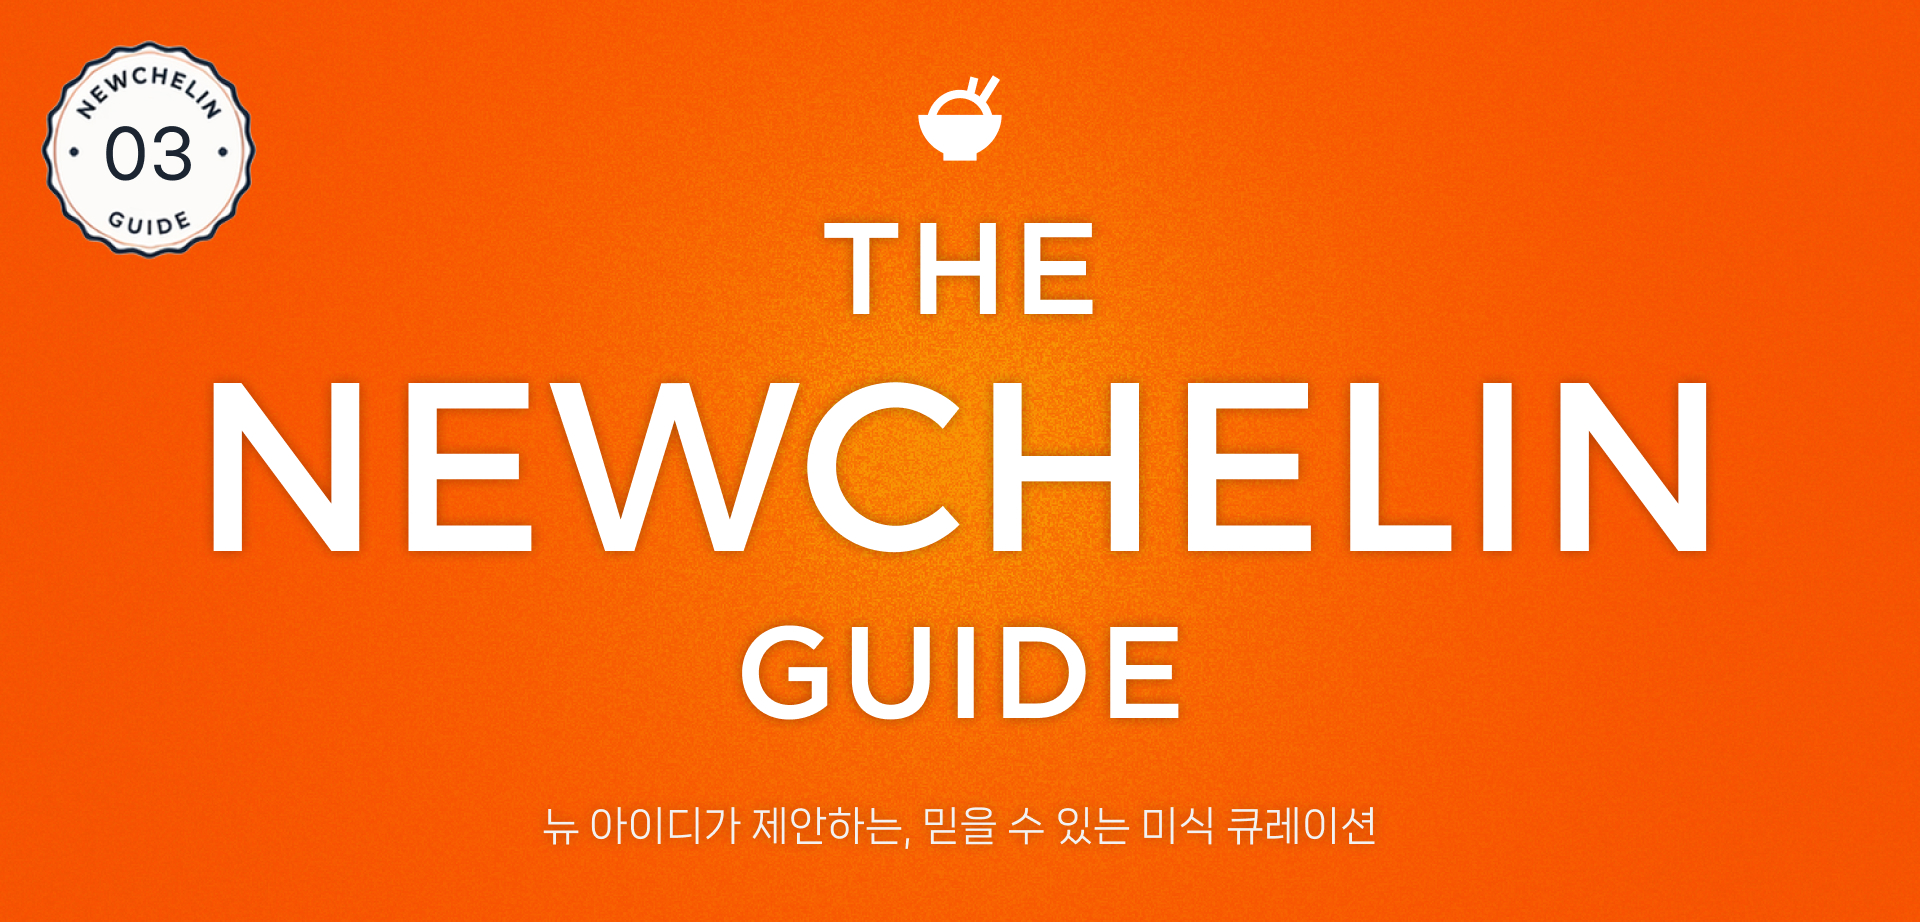
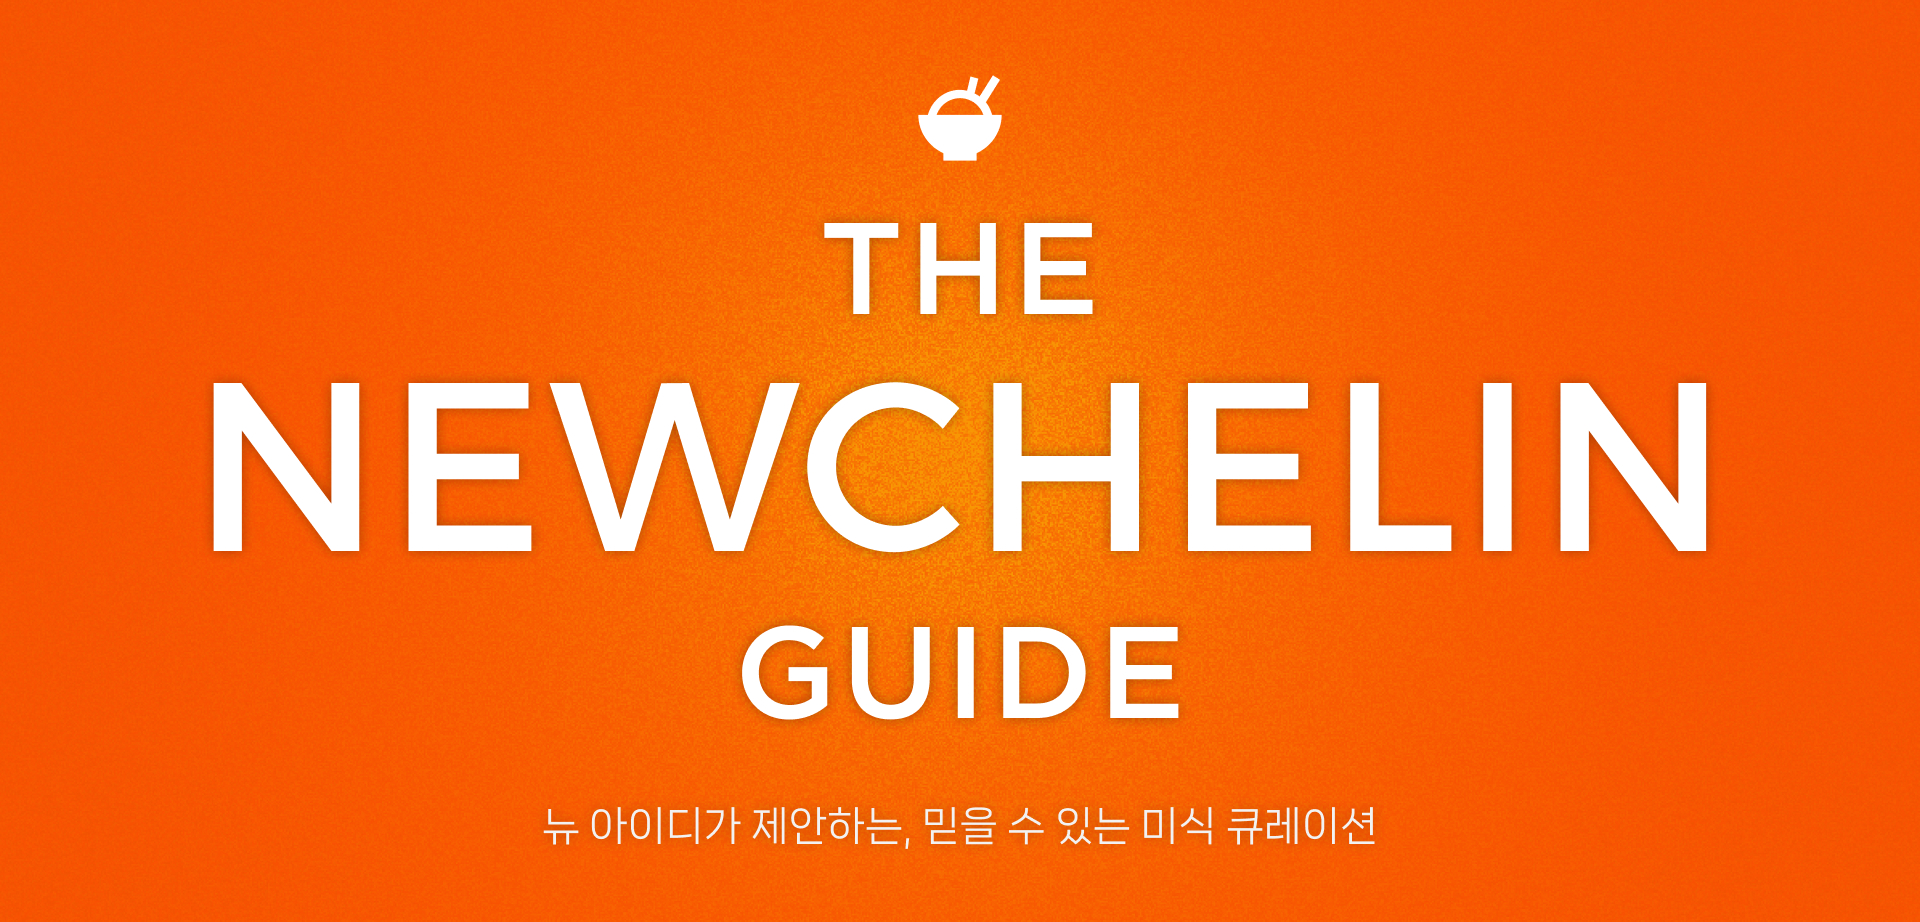
공유 미리보기(OG/트위터 카드) 메타태그 추가
카카오톡·슬랙·페이스북·X 공유 시 뉴슐랭 배너 이미지와 제목/설명 노출

Changed region(s): [[0.0, 0.0304, 0.1562, 0.3037]]

diff --git a/index.html b/index.html
@@ -4,8 +4,27 @@
   <meta charset="UTF-8" />
   <meta name="viewport" content="width=device-width, initial-scale=1.0" />
   <title>THE NEWCHELIN GUIDE MAP | NEW ID</title>
+  <meta name="description" content="뉴 아이디가 제안하는, 믿을 수 있는 미식 큐레이션. 뉴슐랭 가이드에 소개된 맛집과 카페를 지도에서 만나보세요." />
   <link rel="shortcut icon" href="favicon.png" />
   <link rel="icon" type="image/png" href="favicon.png" />
+
+  <!-- Open Graph (카카오톡, 페이스북, 슬랙 등 공유 미리보기) -->
+  <meta property="og:type" content="website" />
+  <meta property="og:site_name" content="NEW ID" />
+  <meta property="og:title" content="THE NEWCHELIN GUIDE MAP" />
+  <meta property="og:description" content="뉴 아이디가 제안하는, 믿을 수 있는 미식 큐레이션. 뉴슐랭 가이드에 소개된 맛집과 카페를 지도에서 만나보세요." />
+  <meta property="og:url" content="https://newchelin-map.vercel.app/" />
+  <meta property="og:image" content="https://newchelin-map.vercel.app/assets/newchelin_banner.jpg" />
+  <meta property="og:image:width" content="1920" />
+  <meta property="og:image:height" content="922" />
+  <meta property="og:image:alt" content="THE NEWCHELIN GUIDE" />
+  <meta property="og:locale" content="ko_KR" />
+
+  <!-- Twitter/X 카드 -->
+  <meta name="twitter:card" content="summary_large_image" />
+  <meta name="twitter:title" content="THE NEWCHELIN GUIDE MAP" />
+  <meta name="twitter:description" content="뉴 아이디가 제안하는, 믿을 수 있는 미식 큐레이션." />
+  <meta name="twitter:image" content="https://newchelin-map.vercel.app/assets/newchelin_banner.jpg" />
 
   <script src="https://cdn.tailwindcss.com/3.4.16"></script>
   <script src="https://unpkg.com/react@18.3.1/umd/react.production.min.js" crossorigin></script>